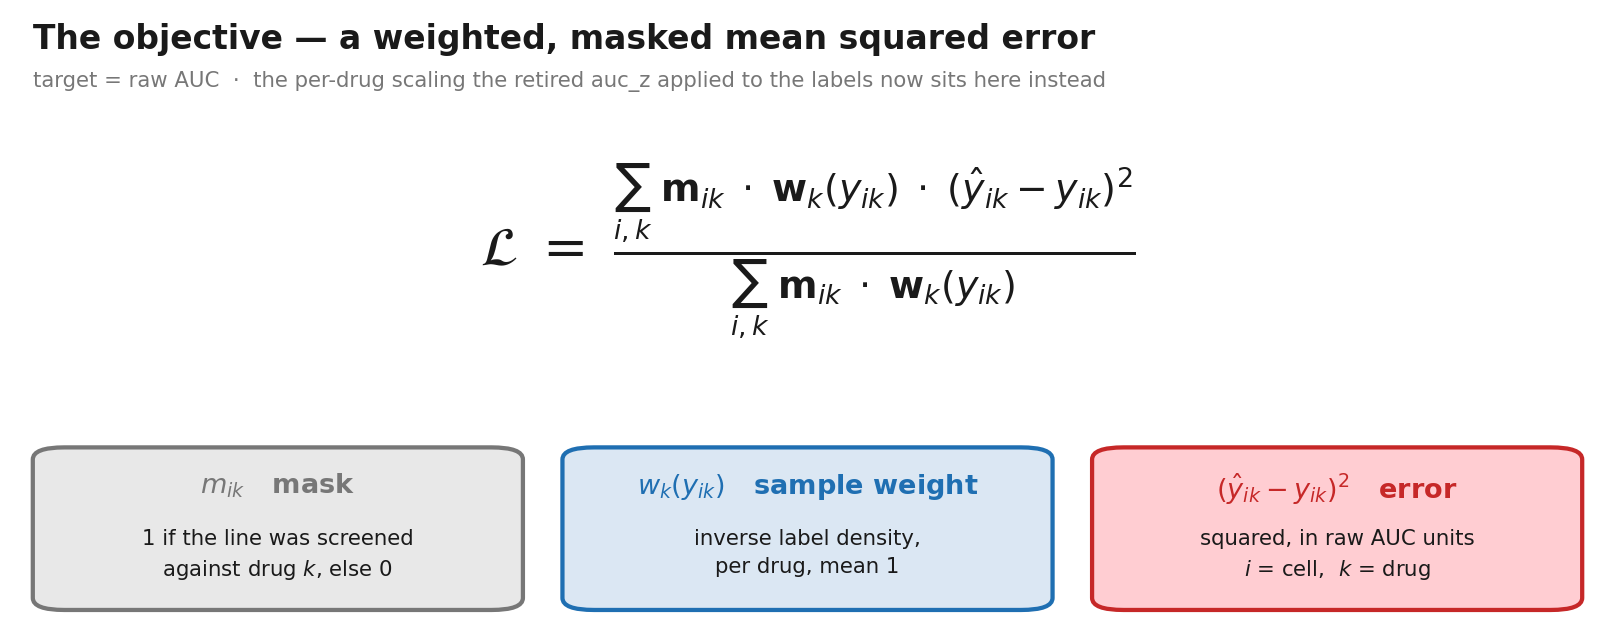
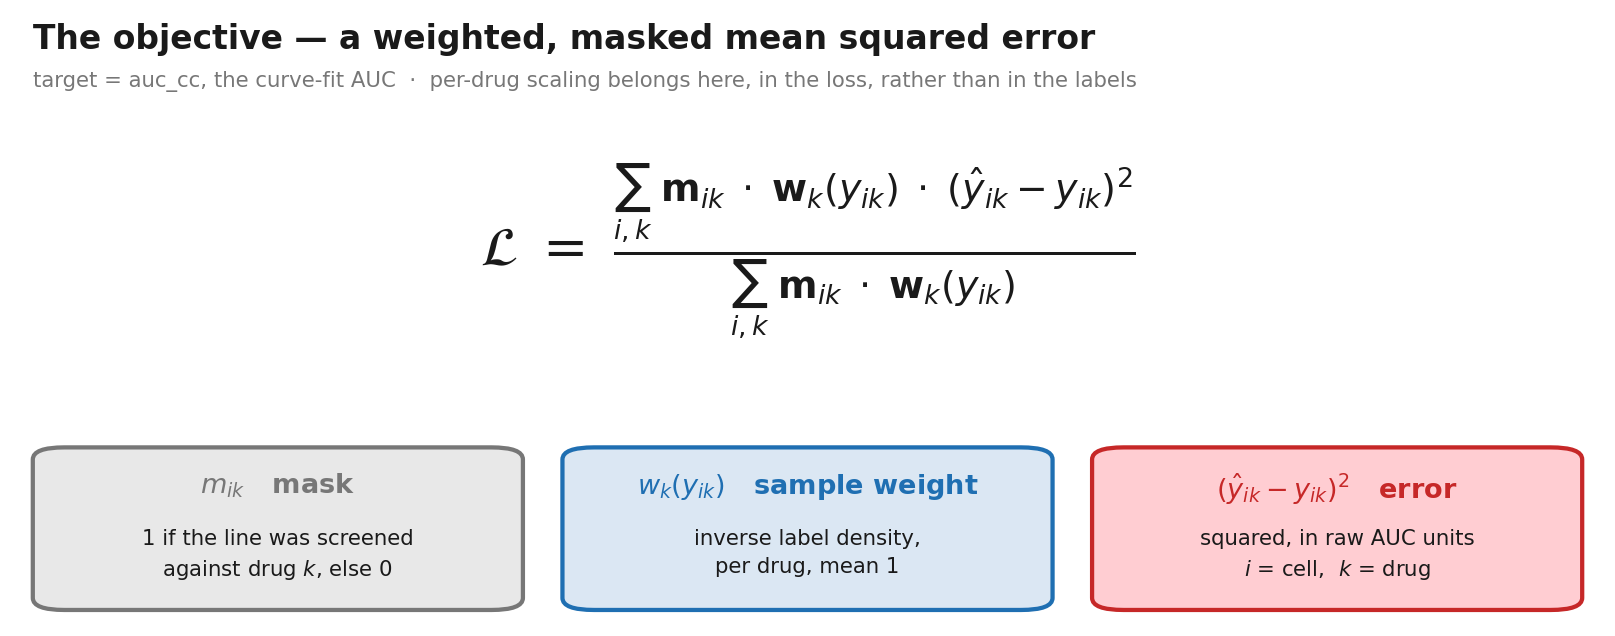
figures: remove auc_z from model_architecture and loss_01_objective
Completes the removal Selin directed: no rendered figure text names auc_z
now. It survives only in three source comments recording what was taken
out and when.

  loss_01_objective  "target = raw AUC · the per-drug scaling the retired
                     auc_z applied to the labels now sits here instead"
                  -> "target = auc_cc, the curve-fit AUC · per-drug
                     scaling belongs here, in the loss, rather than in the
                     labels". Stated positively rather than by contrast
                     with a target the report no longer describes.

  model_architecture  same, plus a second correction found in the same
                     sentence: "the output layer is excluded from weight
                     decay" described exclude_output_from_decay, which
                     exempted the whole output Linear including its weight
                     matrix while still decaying LayerNorm. That flag was
                     replaced by no_decay_bias_and_norm on 12.08.2026, so
                     the figure now says biases and LayerNorm.

Both re-rendered from the committed figure_data.npz cache -- asserted
present before rendering, so no targets h5ad is opened and the freeze is
not touched. Verified by hashing docs/figures/ before and after: exactly
these two PNGs changed, the cache and the other four did not.

Both rendered and looked at. Two adjacent staleness items were found that
[…]

Changed region(s): [[0.0619, 0.1195, 0.7121, 0.1494]]

diff --git a/docs/make_figures.py b/docs/make_figures.py
@@ -275,11 +275,16 @@ def draw_architecture(ax, *, compact: bool = False):
                             "◆ = the measured CTRPv2 value (never seen in training)",
             ha="left", va="top", fontsize=7.6, color=GREY)
 
+    # Two corrections, 12.08.2026. The retired auc_z target is no longer named -- the point stands
+    # on its own, and Methods no longer describes that target at all. And "the output layer is
+    # excluded from weight decay" described exclude_output_from_decay, which exempted the whole
+    # output Linear including its weight matrix while still decaying LayerNorm; it was replaced by
+    # no_decay_bias_and_norm the same day.
     ax.text(0, 16.0,
-            "Raw AUC, not the old per-drug z-score:  the head bias is initialized to the fold's per-drug "
-            "mean AUC and the output layer is excluded from weight decay,\nbecause on an uncentred target "
-            "the bias must sit near 0.7 and decay would pull it to 0.  The per-drug scaling that auc_z "
-            "used to apply now lives in the loss.",
+            "The target is uncentred:  the head bias is initialized to the fold's per-drug mean AUC, "
+            "and biases and LayerNorm are excluded from weight decay,\nbecause the bias must sit near "
+            "the drug's mean (~0.7) and decay would pull it to 0.  Any per-drug scaling belongs in the "
+            "loss, not in the target.",
             ha="left", va="top", fontsize=8.2, color=INK)
 
 
@@ -613,8 +618,8 @@ def draw_loss_objective(ax, *, compact: bool = False):
     if not compact:
         ax.text(1, 99, "The objective — a weighted, masked mean squared error",
                 ha="left", va="top", fontsize=14, fontweight="bold", color=INK)
-        ax.text(1, 91, "target = raw AUC  ·  the per-drug scaling the retired auc_z applied to the "
-                       "labels now sits here instead",
+        ax.text(1, 91, "target = auc_cc, the curve-fit AUC  ·  per-drug scaling belongs here, in the "
+                       "loss, rather than in the labels",
                 ha="left", va="top", fontsize=9, color=GREY)
 
     ax.text(50, 76 if not compact else 92, r"$\mathcal{L}\;=\;\frac{\sum_{i,k}\;"
